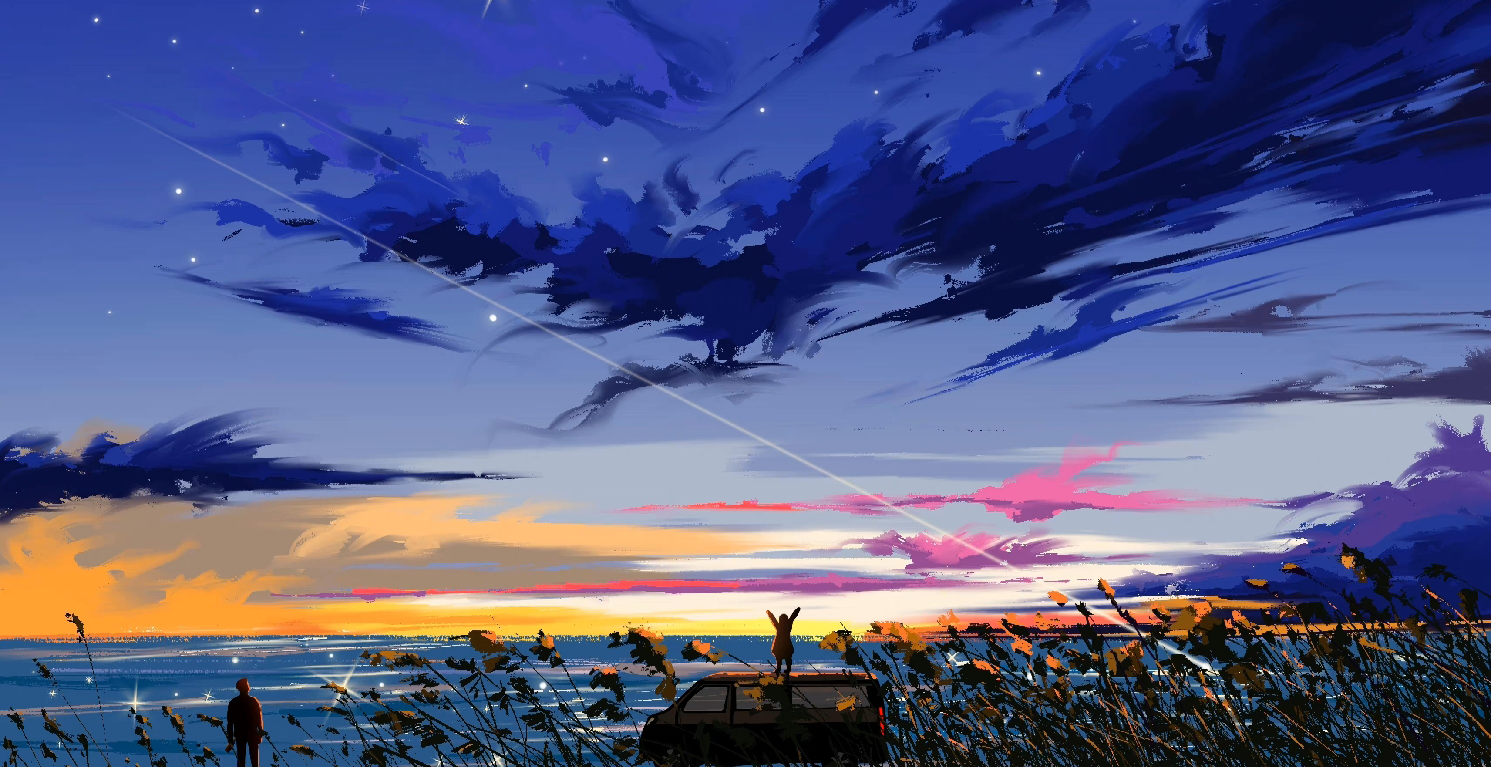
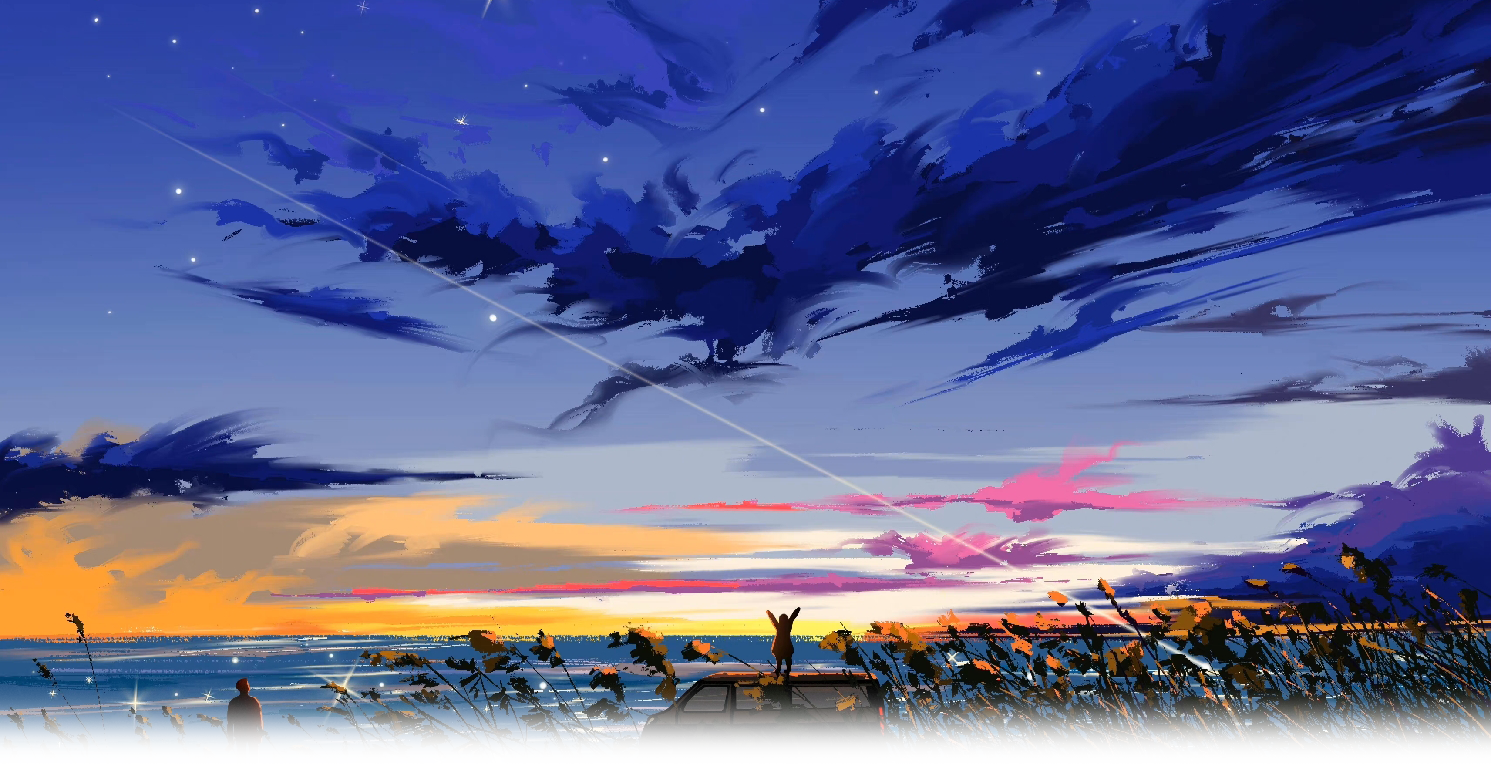
header image gradiant

Changed region(s): [[0.0, 0.8996, 1.0, 1.0]]

diff --git a/src/scss/layout/_header.scss b/src/scss/layout/_header.scss
@@ -4,7 +4,7 @@
   @include reset-Container;
   margin-left: 0;
   margin-right: 0;
-  height: 100vh;
+  height: 110vh;
 
   // scroll down icon
   .scrollIcon {
@@ -65,7 +65,7 @@
   .wallpaper {
     background-image: url("/public/wallpaper.webp");
     background-repeat: no-repeat;
-    background-size: cover;
+    background-size:cover;
     width: 100%;
     height: 100%;
     z-index: -2;
@@ -78,7 +78,7 @@
         opacity: 1;
       }
       &.bg_dark {
-        background: #000000;
+        background: $darkTheme_bg_color;
         opacity: 0.7;
       }
     }
@@ -88,12 +88,12 @@
     position: absolute;
     width: 100%;
     // height: auto;
-    height: 100vh;
+    height: 110vh;
     z-index: 1;
     overflow: hidden;
     img {
       // max-height: 640px;
-      height: 100vh;
+      height: 110vh;
     }
   }
 }

diff --git a/src/index.css b/src/index.css
@@ -5,7 +5,7 @@
   overflow: hidden;
   margin-left: 0;
   margin-right: 0;
-  height: 100vh;
+  height: 110vh;
 }
 #header_container > * {
   margin: 0;
@@ -79,18 +79,18 @@
   opacity: 1;
 }
 #header_container .wallpaper #particle.bg_dark {
-  background: #000000;
+  background: #202124;
   opacity: 0.7;
 }
 #header_container #header_bg {
   position: absolute;
   width: 100%;
-  height: 100vh;
+  height: 110vh;
   z-index: 1;
   overflow: hidden;
 }
 #header_container #header_bg img {
-  height: 100vh;
+  height: 110vh;
 }
 
 /* title texts in header */

diff --git a/src/portfolios/Sylinn.jsx b/src/portfolios/Sylinn.jsx
@@ -60,7 +60,7 @@ function Sylinn() {
               vanilla JavaScript. And it is also integrated with Google&#8482;
               search and Google Map&#8482;.
             </Card.Text>
-            <Card.Text>Last updated 02/2023</Card.Text>
+            <Card.Text></Card.Text>
             <a
               href="https://github.com/coolkidsclubvip/sylinn_website"
               target="_blank"

diff --git a/src/portfolios/FoodRanger.jsx b/src/portfolios/FoodRanger.jsx
@@ -58,7 +58,7 @@ function FoodRanger() {
               VS Code, Photoshop. Technologies are HTML5,CSS3,
               JavaScript,React.js,Bootstrap5.
             </Card.Text>
-            <Card.Text>Last updated 02/2023</Card.Text>
+            <Card.Text></Card.Text>
             <a
               href="https://spicytofu.netlify.app/"
               target="_blank"

diff --git a/src/portfolios/Saddler.jsx b/src/portfolios/Saddler.jsx
@@ -60,7 +60,7 @@ function Saddler() {
               Dreamweaver, Photoshop and Illustrator. Technologies used are
               HTML5 and CSS3.
             </Card.Text>
-            <Card.Text>Last updated 26/02/2015</Card.Text>
+            <Card.Text></Card.Text>
           </Card.Header>
         </Card>
       </Container>

diff --git a/src/portfolios/Mures.jsx b/src/portfolios/Mures.jsx
@@ -25,7 +25,7 @@ function Mures() {
               This is a web desgin work for Cert IV of design, development tool
               was photoshop.
             </Card.Text>
-            <Card.Text>Last updated 2013</Card.Text>
+            <Card.Text></Card.Text>
           </Card.Header>
         </Card>
       </Container>

diff --git a/src/portfolios/Choice.jsx b/src/portfolios/Choice.jsx
@@ -58,7 +58,7 @@ function Choice() {
               are Dreamweaver, Photoshop. Technologies are HTML5,CSS3 and vanila
               JavaScript.
             </Card.Text>
-            <Card.Text>Last updated 2016</Card.Text>
+            <Card.Text></Card.Text>
           </Card.Header>
         </Card>
       </Container>
